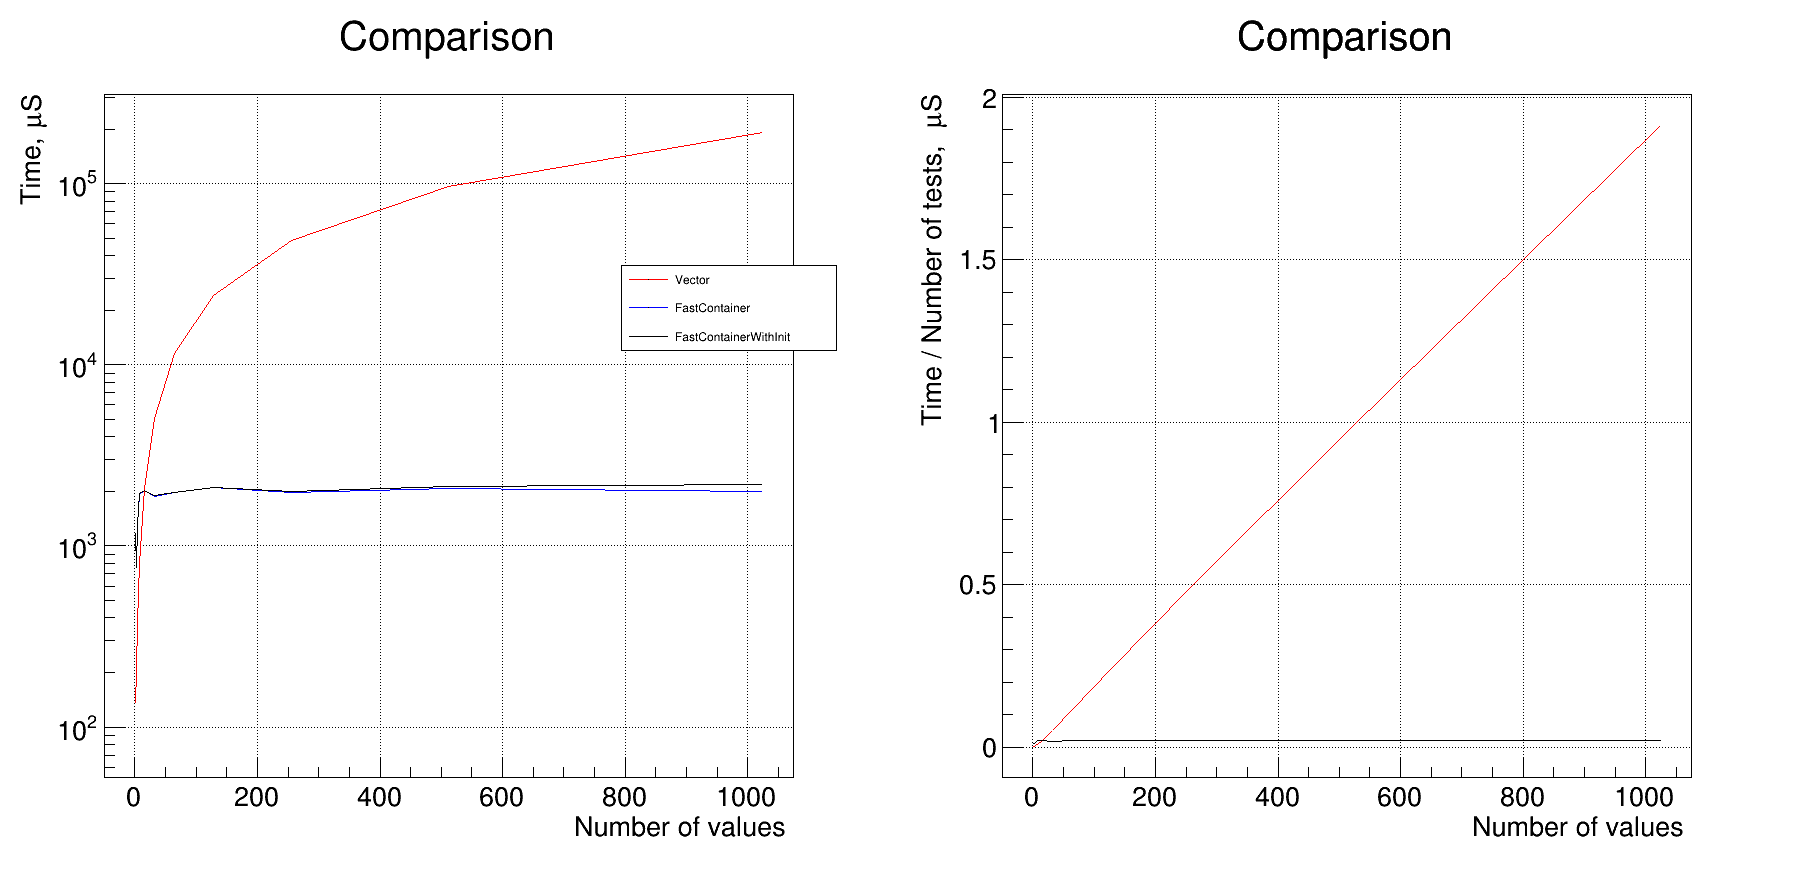
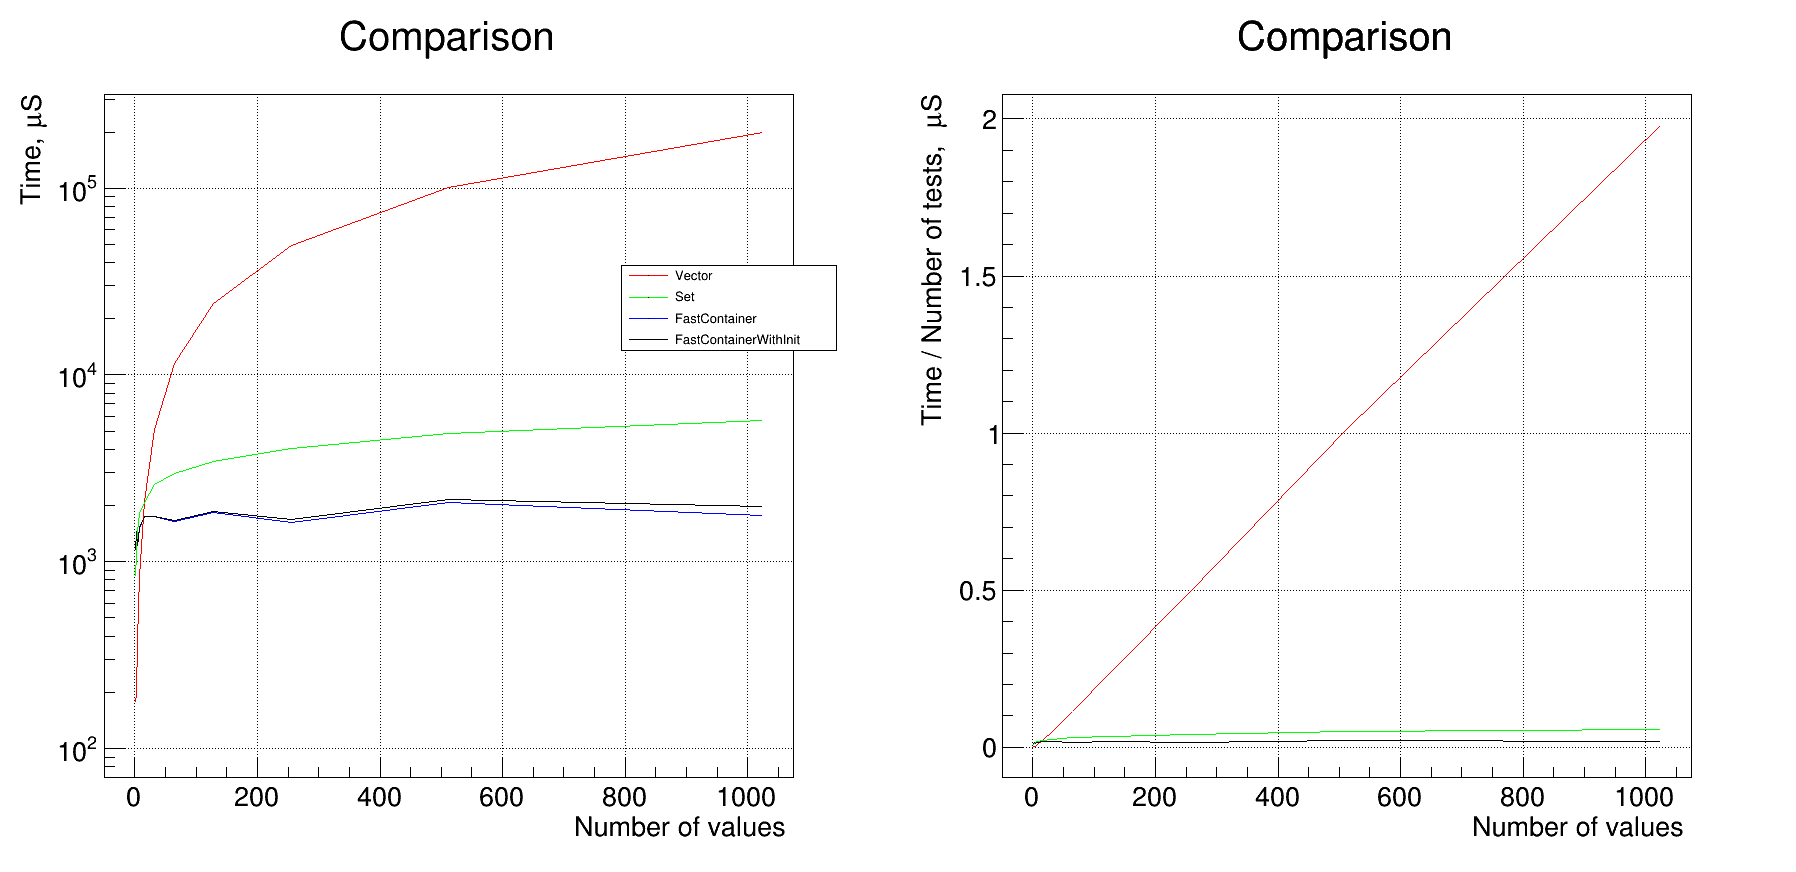
Add set to compare

diff --git a/test.cpp b/test.cpp
@@ -21,6 +21,10 @@ int main()
     gr_std->SetName("gr_std");
     gr_std->SetTitle("Vector");
     gr_std->SetLineColor(kRed);
+    TGraph* gr_set = new TGraph(); 
+    gr_set->SetName("gr_set");
+    gr_set->SetTitle("Set");
+    gr_set->SetLineColor(kGreen);
     TGraph* gr_fast = new TGraph(); 
     gr_fast->SetName("gr_fast");
     gr_fast->SetTitle("FastContainer");
@@ -34,6 +38,10 @@ int main()
     gr_dens_std->SetName("gr_dens_std");
     gr_dens_std->SetTitle("Vector");
     gr_dens_std->SetLineColor(kRed);
+    TGraph* gr_dens_set = new TGraph(); 
+    gr_dens_set->SetName("gr_dens_set");
+    gr_dens_set->SetTitle("Set");
+    gr_dens_set->SetLineColor(kGreen);
     TGraph* gr_dens_fast = new TGraph(); 
     gr_dens_fast->SetName("gr_dens_fast");
     gr_dens_fast->SetTitle("FastContainer");
@@ -87,6 +95,26 @@ int main()
         auto durationStd = std::chrono::duration_cast<std::chrono::microseconds>(stopStd - startStd);
         std::cout << "Standart duration: " << durationStd.count() << ", muSec" << std::endl;
 
+        auto startSet = std::chrono::high_resolution_clock::now();
+        auto comp = [](const std::pair<int, double>& lhs, const std::pair<int, double>& rhs)
+        {
+            return lhs.second < rhs.second;
+        };
+        std::set<std::pair<int, double>, decltype(comp)> tmp_set (vec.begin(), vec.end(), comp);
+
+        std::vector<int> resSet;
+        resSet.reserve(testN);
+        for (const auto& elem: test)
+        {
+            auto it = tmp_set.lower_bound({0, elem});
+            auto pit = std::prev(it);
+            double res = it->second - elem < elem - pit->second ? it->first : pit->first;
+            resSet.push_back(res);
+        }
+        auto stopSet = std::chrono::high_resolution_clock::now();
+        auto durationSet = std::chrono::duration_cast<std::chrono::microseconds>(stopSet - startSet);
+        std::cout << "Standart duration: " << durationSet.count() << ", muSec" << std::endl;
+
         // TEST NEW SOLUTION
         std::vector<int> resF;
         resF.reserve(testN);
@@ -101,9 +129,11 @@ int main()
         std::cout << "New duration: " << durationF.count() << ", muSec" << std::endl;
 
         gr_std->AddPoint(N, durationStd.count());
+        gr_set->AddPoint(N, durationSet.count());
         gr_fast->AddPoint(N, durationF.count());
         gr_fast_with_init->AddPoint(N, durationF.count()+durationCreation.count());
         gr_dens_std->AddPoint(N, durationStd.count() * 1./testN);
+        gr_dens_set->AddPoint(N, durationSet.count() * 1./testN);
         gr_dens_fast->AddPoint(N, durationF.count() * 1./testN);
         gr_dens_fast_with_init->AddPoint(N, (durationF.count()+durationCreation.count()) * 1./testN);
 
@@ -133,6 +163,7 @@ int main()
     c->cd(1);
     TMultiGraph* mg = new TMultiGraph("mg", "Comparison");
     mg->Add(gr_std);
+    mg->Add(gr_set);
     mg->Add(gr_fast);
     mg->Add(gr_fast_with_init);
     mg->GetXaxis()->SetTitle("Number of values");
@@ -141,6 +172,7 @@ int main()
 
     TLegend* legend = new TLegend(0.7, 0.6, 0.95, 0.7);
     legend->AddEntry("gr_std");
+    legend->AddEntry("gr_set");
     legend->AddEntry("gr_fast");
     legend->AddEntry("gr_fast_with_init");
     legend->Draw();
@@ -149,6 +181,7 @@ int main()
     c->cd(2);
     TMultiGraph* mg_dens = new TMultiGraph("mg_dens", "Comparison");
     mg_dens->Add(gr_dens_std);
+    mg_dens->Add(gr_dens_set);
     mg_dens->Add(gr_dens_fast);
     mg_dens->Add(gr_dens_fast_with_init);
     mg_dens->GetXaxis()->SetTitle("Number of values");
